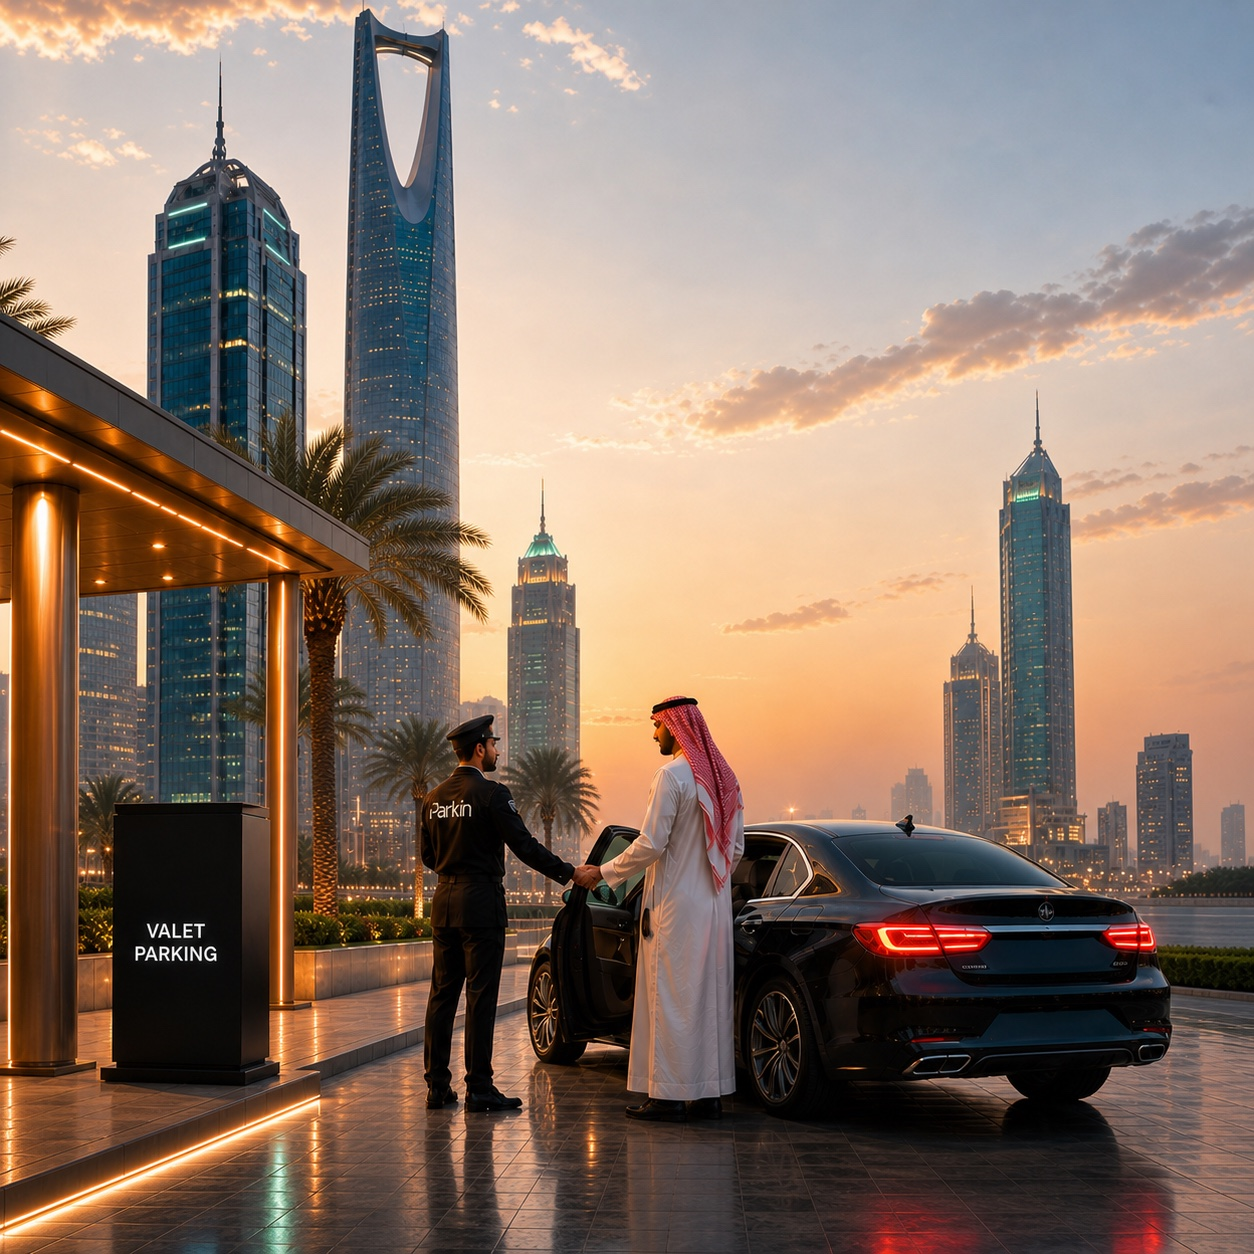
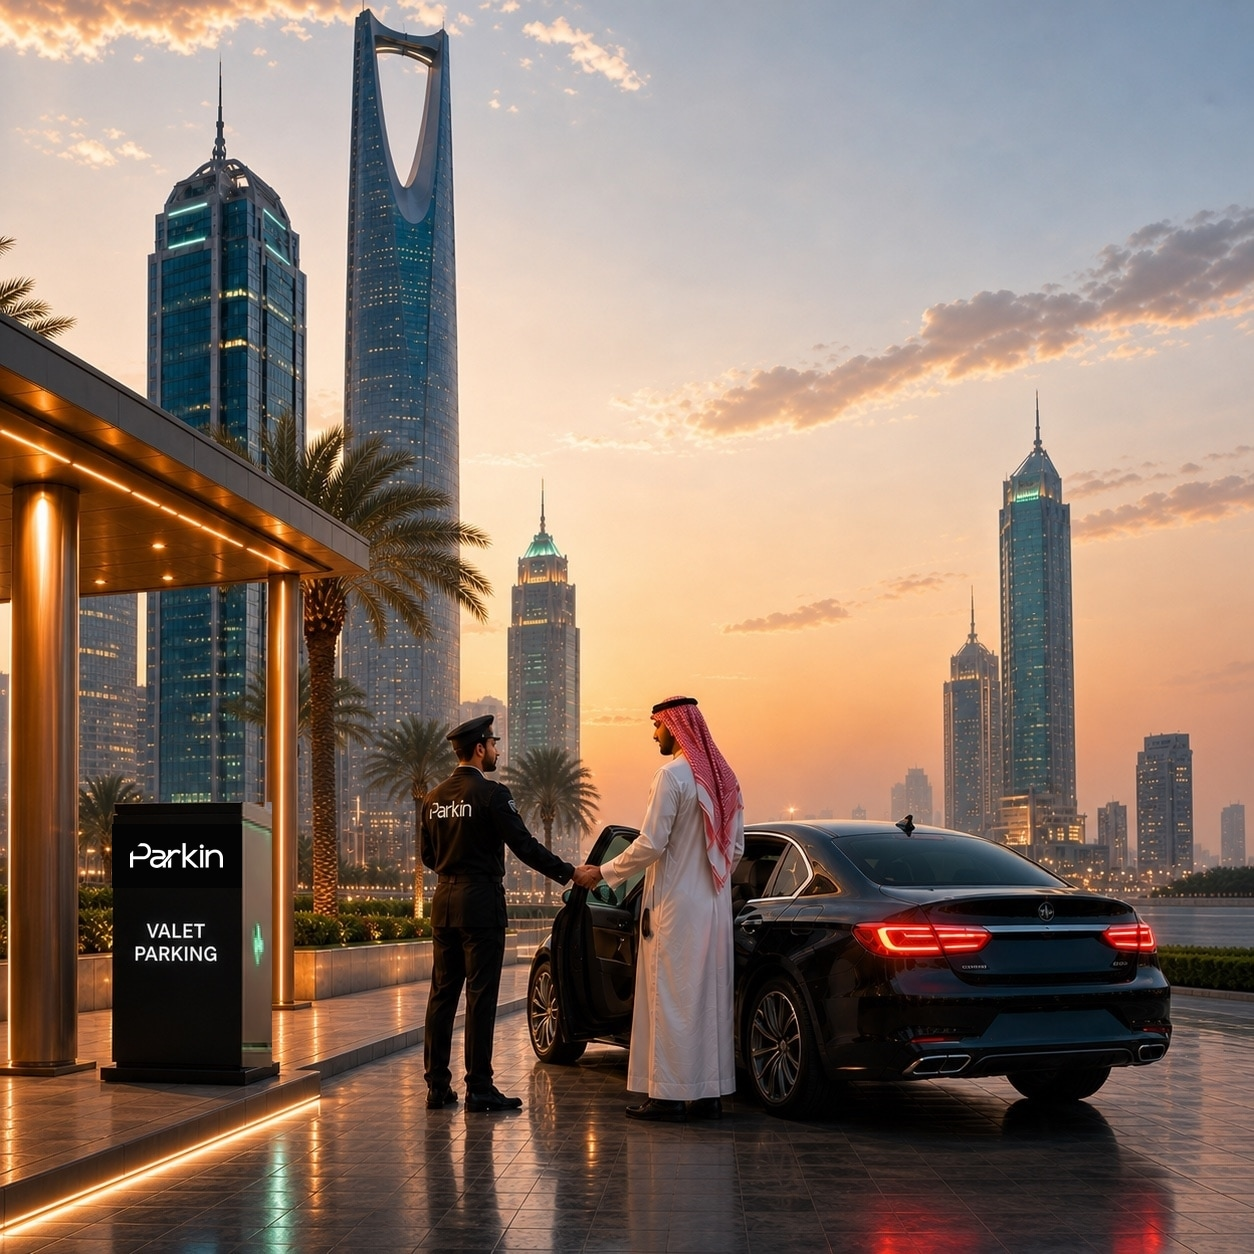
Arabic hero changes, add local mac address

Changed region(s): [[0.0933, 0.622, 0.2177, 0.8708], [0.0622, 0.933, 0.0933, 0.9641]]

diff --git a/styles.css b/styles.css
@@ -266,6 +266,25 @@ svg {
   line-height: 1.48;
 }
 
+@media (min-width: 1101px) and (min-height: 881px) {
+  .marketing-panel {
+    --marketing-bg-position: 80% center;
+  }
+
+  .marketing-content {
+    padding: 128px 53px;
+  }
+
+  .feature-list {
+    gap: 44px;
+    margin-top: 57px;
+  }
+
+  .feature-item p {
+    max-width: 205px;
+  }
+}
+
 .auth-panel {
   position: relative;
   z-index: 2;
